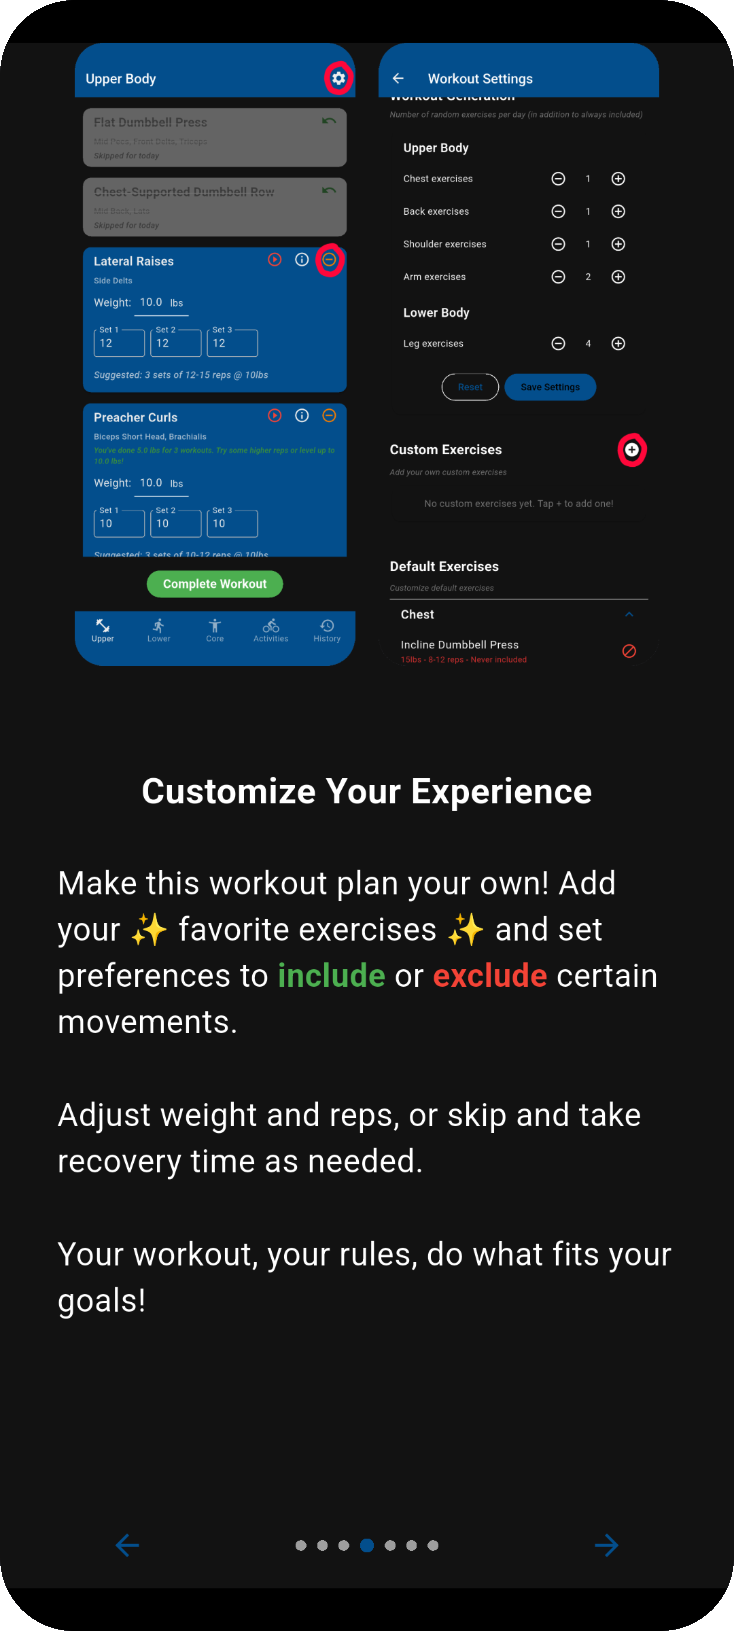
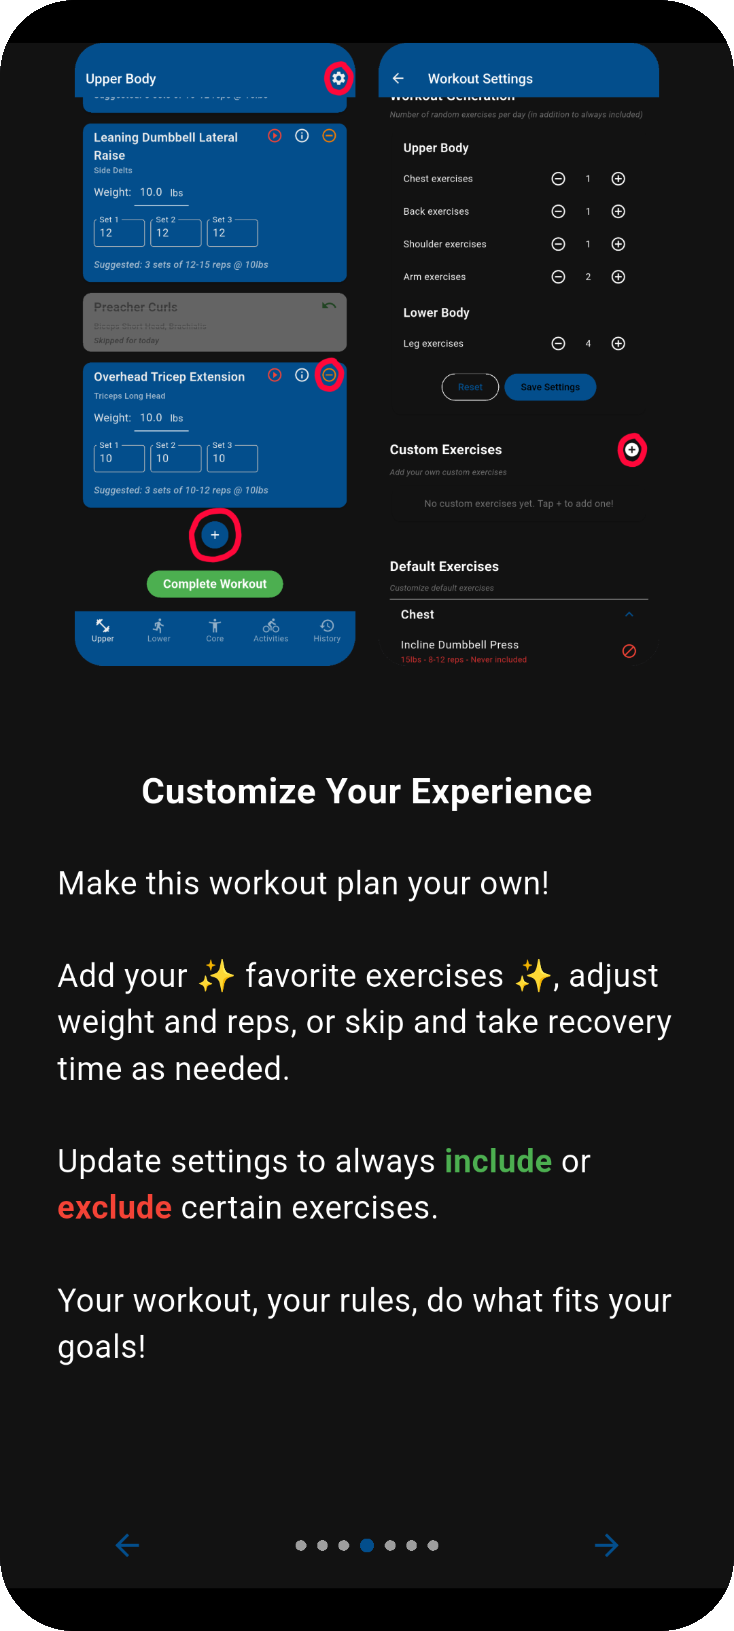
inline video for upper/lower body exercises and small screenshot tweak

Changed region(s): [[0.0599, 0.5212, 0.9292, 0.8584], [0.0899, 0.0307, 0.4796, 0.3679]]

diff --git a/lib/data/constants.dart b/lib/data/constants.dart
@@ -50,8 +50,8 @@ class TextStyles {
   static const TextStyle primaryBoldHeading = TextStyle(fontSize: 16, fontWeight: FontWeight.bold, color: primaryColor);
 }
 
-// Exercise Database - Easy to Extend!
-// To add new exercises: Just add to the appropriate list below
+// Exercise Database
+// Add new exercises to the appropriate list below
 class ExerciseDatabase {
   // Helper method to create exercises with auto-generated YouTube search links
   // Sets is always 3 for all exercises
@@ -62,6 +62,7 @@ class ExerciseDatabase {
     String reps = "8-12",
     String notes = "",
     double? beginnerWeight,
+    String? videoLink,
   }) {
     final searchQuery = name.replaceAll(' ', '+').toLowerCase();
     return Exercise(
@@ -69,7 +70,7 @@ class ExerciseDatabase {
       muscleGroup: muscleGroup,
       targetMuscles: targetMuscles,
       reps: reps,
-      videoLink: 'https://www.youtube.com/results?search_query=$searchQuery+dumbbell',
+      videoLink: videoLink ?? 'https://www.youtube.com/results?search_query=$searchQuery+dumbbell',
       notes: notes,
       weight: beginnerWeight,
     );
@@ -82,6 +83,7 @@ class ExerciseDatabase {
       muscleGroup: MuscleGroup.upperBody,
       targetMuscles: ["Upper Pecs", "Front Delts"],
       reps: "8-12",
+      videoLink: "https://youtu.be/Gruq177Psnk",
       notes: "Set bench to 30-45 degrees. Keep elbows at 45-degree angle from body. Press up and slightly inward at top. Retract shoulder blades throughout.",
       beginnerWeight: 15.0,
     ),
@@ -90,6 +92,7 @@ class ExerciseDatabase {
       muscleGroup: MuscleGroup.upperBody,
       targetMuscles: ["Mid Pecs", "Front Delts", "Triceps"],
       reps: "8-12",
+      videoLink: "https://youtu.be/WbCEvFA0NJs",
       notes: "Lower dumbbells until elbows are at 90 degrees or slightly below chest level. Keep shoulder blades retracted. Press straight up, don't let dumbbells drift over face.",
       beginnerWeight: 15.0,
     ),
@@ -98,6 +101,7 @@ class ExerciseDatabase {
       muscleGroup: MuscleGroup.upperBody,
       targetMuscles: ["Pecs"],
       reps: "10-15",
+      videoLink: "https://youtu.be/rk8YayRoTRQ",
       notes: "Keep slight bend in elbows (like hugging a tree). Lower until you feel a stretch in chest, don't go too deep. Focus on squeezing chest at top.",
       beginnerWeight: 10.0,
     ),
@@ -110,6 +114,7 @@ class ExerciseDatabase {
       muscleGroup: MuscleGroup.upperBody,
       targetMuscles: ["Mid Back", "Lats"],
       reps: "10-12",
+      videoLink: "https://youtu.be/tahGpBijHkY",
       notes: "Lie face down on incline bench. Pull elbows straight back past your torso. Squeeze shoulder blades together at top. Lead with elbows, not hands.",
       beginnerWeight: 15.0,
     ),
@@ -118,6 +123,7 @@ class ExerciseDatabase {
       muscleGroup: MuscleGroup.upperBody,
       targetMuscles: ["Lats", "Mid Back"],
       reps: "10-12",
+      videoLink: "https://youtu.be/yHqqGd0tXcw",
       notes: "Place knee and hand on bench. Keep back flat and parallel to floor. Pull weight toward hip, not straight up. Keep core tight. Control the descent.",
       beginnerWeight: 15.0,
     ),
@@ -126,6 +132,7 @@ class ExerciseDatabase {
       muscleGroup: MuscleGroup.upperBody,
       targetMuscles: ["Lats", "Pecs"],
       reps: "10-12",
+      videoLink: "https://youtu.be/raU5C9bWo9U",
       notes: "Lie flat on bench, feet on floor, shoulders pressed down. Hold dumbbell overhead with both hands. Lower weight back behind your head in an arc until you feel lat stretch. Keep slight bend in elbows. Pull back using lats, not arms.",
       beginnerWeight: 15.0,
     ),
@@ -138,6 +145,7 @@ class ExerciseDatabase {
       muscleGroup: MuscleGroup.upperBody,
       targetMuscles: ["Front Delts", "Side Delts"],
       reps: "8-12",
+      videoLink: "https://youtu.be/k6tzKisR3NY",
       notes: "Start with dumbbells at shoulder height. Press straight up, rotating slightly inward at top. Keep core tight, avoid arching lower back. Lower with control.",
       beginnerWeight: 15.0,
     ),
@@ -146,6 +154,7 @@ class ExerciseDatabase {
       muscleGroup: MuscleGroup.upperBody,
       targetMuscles: ["Side Delts"],
       reps: "12-15",
+      videoLink: "https://youtu.be/lMYs7FY8os4",
       notes: "Keep slight bend in elbows. Raise arms out to sides until parallel to floor. Lead with elbows, pour pinky slightly upward at top. Control descent, don't let weights drop.",
       beginnerWeight: 10.0,
     ),
@@ -154,6 +163,7 @@ class ExerciseDatabase {
       muscleGroup: MuscleGroup.upperBody,
       targetMuscles: ["Side Delts"],
       reps: "12-15",
+      videoLink: "https://youtu.be/p8eMhRdeX4g",
       notes: "Hold onto sturdy support with one hand. Lean away at angle. Raise dumbbell to side, emphasizing the stretch at bottom. Increases range of motion vs standard lateral raise.",
       beginnerWeight: 10.0,
     ),
@@ -162,6 +172,7 @@ class ExerciseDatabase {
       muscleGroup: MuscleGroup.upperBody,
       targetMuscles: ["Rear Delts", "Upper Back"],
       reps: "12-15",
+      videoLink: "https://youtu.be/LsT-bR_zxLo",
       notes: "Hinge at hips until torso is near parallel to floor. Keep back flat, slight knee bend. Raise dumbbells out to sides, squeeze shoulder blades. Keep slight elbow bend throughout.",
       beginnerWeight: 10.0,
     ),
@@ -174,6 +185,7 @@ class ExerciseDatabase {
       muscleGroup: MuscleGroup.upperBody,
       targetMuscles: ["Biceps Long Head", "Brachialis"],
       reps: "10-12",
+      videoLink: "https://youtu.be/fXFN8_1Bh6k",
       notes: "Set bench to 45-60 degrees (higher angle = easier). Let arms hang straight down with full stretch. Curl up while keeping elbows stationary. Squeeze at top, control the descent. Don't swing.",
       beginnerWeight: 10.0,
     ),
@@ -182,6 +194,7 @@ class ExerciseDatabase {
       muscleGroup: MuscleGroup.upperBody,
       targetMuscles: ["Biceps Short Head", "Brachialis"],
       reps: "10-12",
+      videoLink: "https://youtu.be/Mg0NnlF5NZQ",
       notes: "Rest upper arms on pad, keep armpits tight to top of pad. Curl up while keeping upper arms pressed down. Go to full extension at bottom. Control the negative phase.",
       beginnerWeight: 10.0,
     ),
@@ -190,6 +203,7 @@ class ExerciseDatabase {
       muscleGroup: MuscleGroup.upperBody,
       targetMuscles: ["Brachialis", "Biceps", "Forearms"],
       reps: "10-12",
+      videoLink: "https://youtu.be/vm0zV_WQerE",
       notes: "Hold dumbbells with palms facing each other (neutral grip). Keep elbows tight to sides. Curl straight up without rotating wrists. Squeeze at top, control descent.",
       beginnerWeight: 10.0,
     ),
@@ -198,6 +212,7 @@ class ExerciseDatabase {
       muscleGroup: MuscleGroup.upperBody,
       targetMuscles: ["Triceps Long Head"],
       reps: "10-12",
+      videoLink: "https://youtu.be/b_r_LW4HEcM",
       notes: "Hold dumbbell overhead with both hands. Keep elbows pointed straight up and close to head. Lower behind head until you feel tricep stretch. Extend back up without moving elbows.",
       beginnerWeight: 10.0,
     ),
@@ -206,6 +221,7 @@ class ExerciseDatabase {
       muscleGroup: MuscleGroup.upperBody,
       targetMuscles: ["Triceps"],
       reps: "12-15",
+      videoLink: "https://youtu.be/GZ3NzlJs_yg",
       notes: "Hinge at hips, keep back flat. Pin upper arm parallel to floor. Extend elbow fully until arm is straight, squeeze tricep hard. Only forearm should move.",
       beginnerWeight: 10.0,
     ),
@@ -218,6 +234,7 @@ class ExerciseDatabase {
       muscleGroup: MuscleGroup.lowerBody,
       targetMuscles: ["Glutes", "Hamstrings"],
       reps: "10-12",
+      videoLink: "https://youtu.be/or1frhkjBDc",
       notes: "Place back foot on bench. Take longer step forward (wider stance). Keep torso upright. Descend until back knee nearly touches ground. Drive through front heel. Emphasizes glutes more than quads.",
       beginnerWeight: 20.0,
     ),
@@ -226,6 +243,7 @@ class ExerciseDatabase {
       muscleGroup: MuscleGroup.lowerBody,
       targetMuscles: ["Quads"],
       reps: "10-12",
+      videoLink: "https://youtu.be/tdOk9XkzGVc",
       notes: "Place back foot on bench. Take shorter step forward (narrower stance). Allow front knee to travel forward over toes. Keep torso more upright. Targets quads more than glutes.",
       beginnerWeight: 20.0,
     ),
@@ -234,6 +252,7 @@ class ExerciseDatabase {
       muscleGroup: MuscleGroup.lowerBody,
       targetMuscles: ["Hamstrings", "Glutes"],
       reps: "10-12",
+      videoLink: "https://youtu.be/dN_-PRqrQkA",
       notes: "Hold dumbbells at thighs. Hinge at hips by pushing butt back. Keep back flat, slight knee bend. Lower until you feel hamstring stretch (mid-shin). Squeeze glutes to return. Don't round back.",
       beginnerWeight: 20.0,
     ),
@@ -242,6 +261,7 @@ class ExerciseDatabase {
       muscleGroup: MuscleGroup.lowerBody,
       targetMuscles: ["Quads", "Glutes"],
       reps: "10-15",
+      videoLink: "https://youtu.be/lRYBbchqxtI",
       notes: "Hold dumbbell vertically at chest (like a goblet). Squat down keeping chest up. Push knees out, elbows go between knees. Go deep (below parallel if possible). Drive through heels.",
       beginnerWeight: 20.0,
     ),
@@ -250,7 +270,8 @@ class ExerciseDatabase {
       muscleGroup: MuscleGroup.lowerBody,
       targetMuscles: ["Quads"],
       reps: "8-10",
-      notes: "Kneel on pad, secure feet. Keep body straight from knees to shoulders. Lean back slowly under control. Go as far as comfortable. Return using quads. Very challenging - use assistance if needed.",
+      videoLink: "https://youtu.be/GtBxjoLlHyA",
+      notes: "Kneel on pad, secure feet. Keep body straight from knees to shoulders. Lean back slowly under control. Go as far as comfortable. Return using quads. Very challenging, use assistance if needed.",
       beginnerWeight: 0.0,
     ),
     createExercise(
@@ -258,7 +279,8 @@ class ExerciseDatabase {
       muscleGroup: MuscleGroup.lowerBody,
       targetMuscles: ["Quads"],
       reps: "8-10",
-      notes: "Hold onto stable support. Rise on toes, push knees forward. Lean back while bending knees. Keep hips extended, body in straight line. Advanced exercise - start with partial range if needed.",
+      videoLink: "https://youtu.be/z1IcOHr8Ff8",
+      notes: "Hold onto stable support. Rise on toes, push knees forward. Lean back while bending knees. Keep hips extended, body in straight line. Advanced exercise, start with partial range if needed.",
       beginnerWeight: 0.0,
     ),
     createExercise(
@@ -266,6 +288,7 @@ class ExerciseDatabase {
       muscleGroup: MuscleGroup.lowerBody,
       targetMuscles: ["Quads", "Glutes"],
       reps: "10-12",
+      videoLink: "https://youtu.be/mJilHWIBWO8",
       notes: "Hold dumbbells at sides. Step forward with one leg. Lower back knee toward ground (don't slam). Keep torso upright, front knee over ankle. Push through front heel to return. Alternate legs.",
       beginnerWeight: 20.0,
     ),

diff --git a/lib/screens/home_screen.dart b/lib/screens/home_screen.dart
@@ -39,6 +39,10 @@ class _HomeScreenState extends State<HomeScreen> {
   bool _isActivityFormActive = false;
   final GlobalKey _activityFormKey = GlobalKey();
   String? _currentCoreVideoUrl; // Track currently playing core video
+  String? _currentExerciseVideoUrl; // Track currently playing exercise video
+  String? _currentExerciseVideoName; // Track which exercise's video is playing
+  final ScrollController _scrollController = ScrollController();
+  final Map<String, GlobalKey> _exerciseKeys = {}; // Keys for scrolling to exercises
   CoreWorkoutRoutine? completedCoreWorkoutToday;
   CoreWorkoutRoutine? completedCoreWorkoutYesterday;
   ActivityRoutine? completedActivitiesToday;
@@ -50,7 +54,6 @@ class _HomeScreenState extends State<HomeScreen> {
   Map<MuscleGroup, List<Exercise>> completedWorkoutsToday = {}; // Track completed workouts with exercises
   Map<MuscleGroup, WorkoutRoutine> cachedWorkouts = {}; // Cache in-progress workouts by muscle group
   bool _showAddExerciseCard = false; // Track if add exercise card is visible
-  final ScrollController _scrollController = ScrollController();
 
   late PageController _pageController;
   int _currentIndex = 0;
@@ -558,17 +561,38 @@ class _HomeScreenState extends State<HomeScreen> {
     }
   }
 
-  /// Launch URL externally (for upper/lower body YouTube search links)
-  Future<void> _launchUrlExternal(String url) async {
+  /// Launch URL externally (for search links) or inline (for direct video links)
+  Future<void> _launchUrlExternal(String url, String exerciseName) async {
     if (url.isEmpty) {
       _showSnackbar('No video link available');
       return;
     }
 
-    final Uri parsedUrl = Uri.parse(url);
+    // If URL contains "results", it's a search link - open externally
+    if (url.contains('results')) {
+      final Uri parsedUrl = Uri.parse(url);
+      if (!await launchUrl(parsedUrl, mode: LaunchMode.externalApplication)) {
+        _showSnackbar('Could not open video link');
+      }
+    } else {
+      // Direct video link - play inline
+      setState(() {
+        _currentExerciseVideoUrl = url;
+        _currentExerciseVideoName = exerciseName;
+      });
 
-    if (!await launchUrl(parsedUrl, mode: LaunchMode.externalApplication)) {
-      _showSnackbar('Could not open video link');
+      // Scroll to the exercise after a brief delay to let the video render
+      Future.delayed(Duration(milliseconds: 100), () {
+        final key = _exerciseKeys[exerciseName];
+        if (key?.currentContext != null) {
+          Scrollable.ensureVisible(
+            key!.currentContext!,
+            duration: Duration(milliseconds: 300),
+            curve: Curves.easeOut,
+            alignment: 0.0, // Scroll to top of viewport
+          );
+        }
+      });
     }
   }
 
@@ -621,7 +645,7 @@ class _HomeScreenState extends State<HomeScreen> {
                 return ExerciseCard(
                   exercise: exercise,
                   onUpdate: (_) {}, // Read-only, no updates allowed
-                  onLaunchVideo: () => _launchUrlExternal(exercise.videoLink),
+                  onLaunchVideo: () => _launchUrlExternal(exercise.videoLink, exercise.name),
                   isReadOnly: true,
                 );
               },
@@ -653,12 +677,36 @@ class _HomeScreenState extends State<HomeScreen> {
                 // Use updated exercise if available
                 final displayExercise = exerciseUpdates[exercise.name] ?? exercise;
 
-                return ExerciseCard(
-                  exercise: displayExercise,
-                  onUpdate: _updateExercise,
-                  onLaunchVideo: () => _launchUrlExternal(exercise.videoLink),
-                  onSkip: () => _skipExercise(displayExercise),
-                  onRestore: () => _restoreExercise(displayExercise),
+                // Create or retrieve key for this exercise
+                _exerciseKeys.putIfAbsent(exercise.name, () => GlobalKey());
+
+                return Container(
+                  key: _exerciseKeys[exercise.name],
+                  child: Column(
+                    children: [
+                      // Show inline video player above this exercise if it's the current video
+                      if (_currentExerciseVideoName == exercise.name && _currentExerciseVideoUrl != null) ...[
+                        InlineYouTubePlayer(
+                          key: ValueKey(_currentExerciseVideoUrl),
+                          videoUrl: _currentExerciseVideoUrl!,
+                          onClose: () {
+                            setState(() {
+                              _currentExerciseVideoUrl = null;
+                              _currentExerciseVideoName = null;
+                            });
+                          },
+                        ),
+                        SizedBox(height: 16),
+                      ],
+                      ExerciseCard(
+                        exercise: displayExercise,
+                        onUpdate: _updateExercise,
+                        onLaunchVideo: () => _launchUrlExternal(exercise.videoLink, exercise.name),
+                        onSkip: () => _skipExercise(displayExercise),
+                        onRestore: () => _restoreExercise(displayExercise),
+                      ),
+                    ],
+                  ),
                 );
               }
 

diff --git a/lib/screens/onboarding.dart b/lib/screens/onboarding.dart
@@ -91,7 +91,9 @@ class OnboardingPage extends StatelessWidget {
             children: [
               TextSpan(
                 text:
-                    "Make this workout plan your own! Add your ✨ favorite exercises ✨ and set preferences to ",
+                    "Make this workout plan your own!\n\n"
+                    "Add your ✨ favorite exercises ✨, adjust weight and reps, or skip and take recovery time as needed.\n\n"
+                    "Update settings to always ",
               ),
               TextSpan(
                 text: "include",
@@ -104,8 +106,7 @@ class OnboardingPage extends StatelessWidget {
               ),
               TextSpan(
                 text:
-                    " certain movements.\n\n"
-                    "Adjust weight and reps, or skip and take recovery time as needed.\n\n"
+                    " certain exercises.\n\n"
                     "Your workout, your rules, do what fits your goals!",
               ),
             ],
